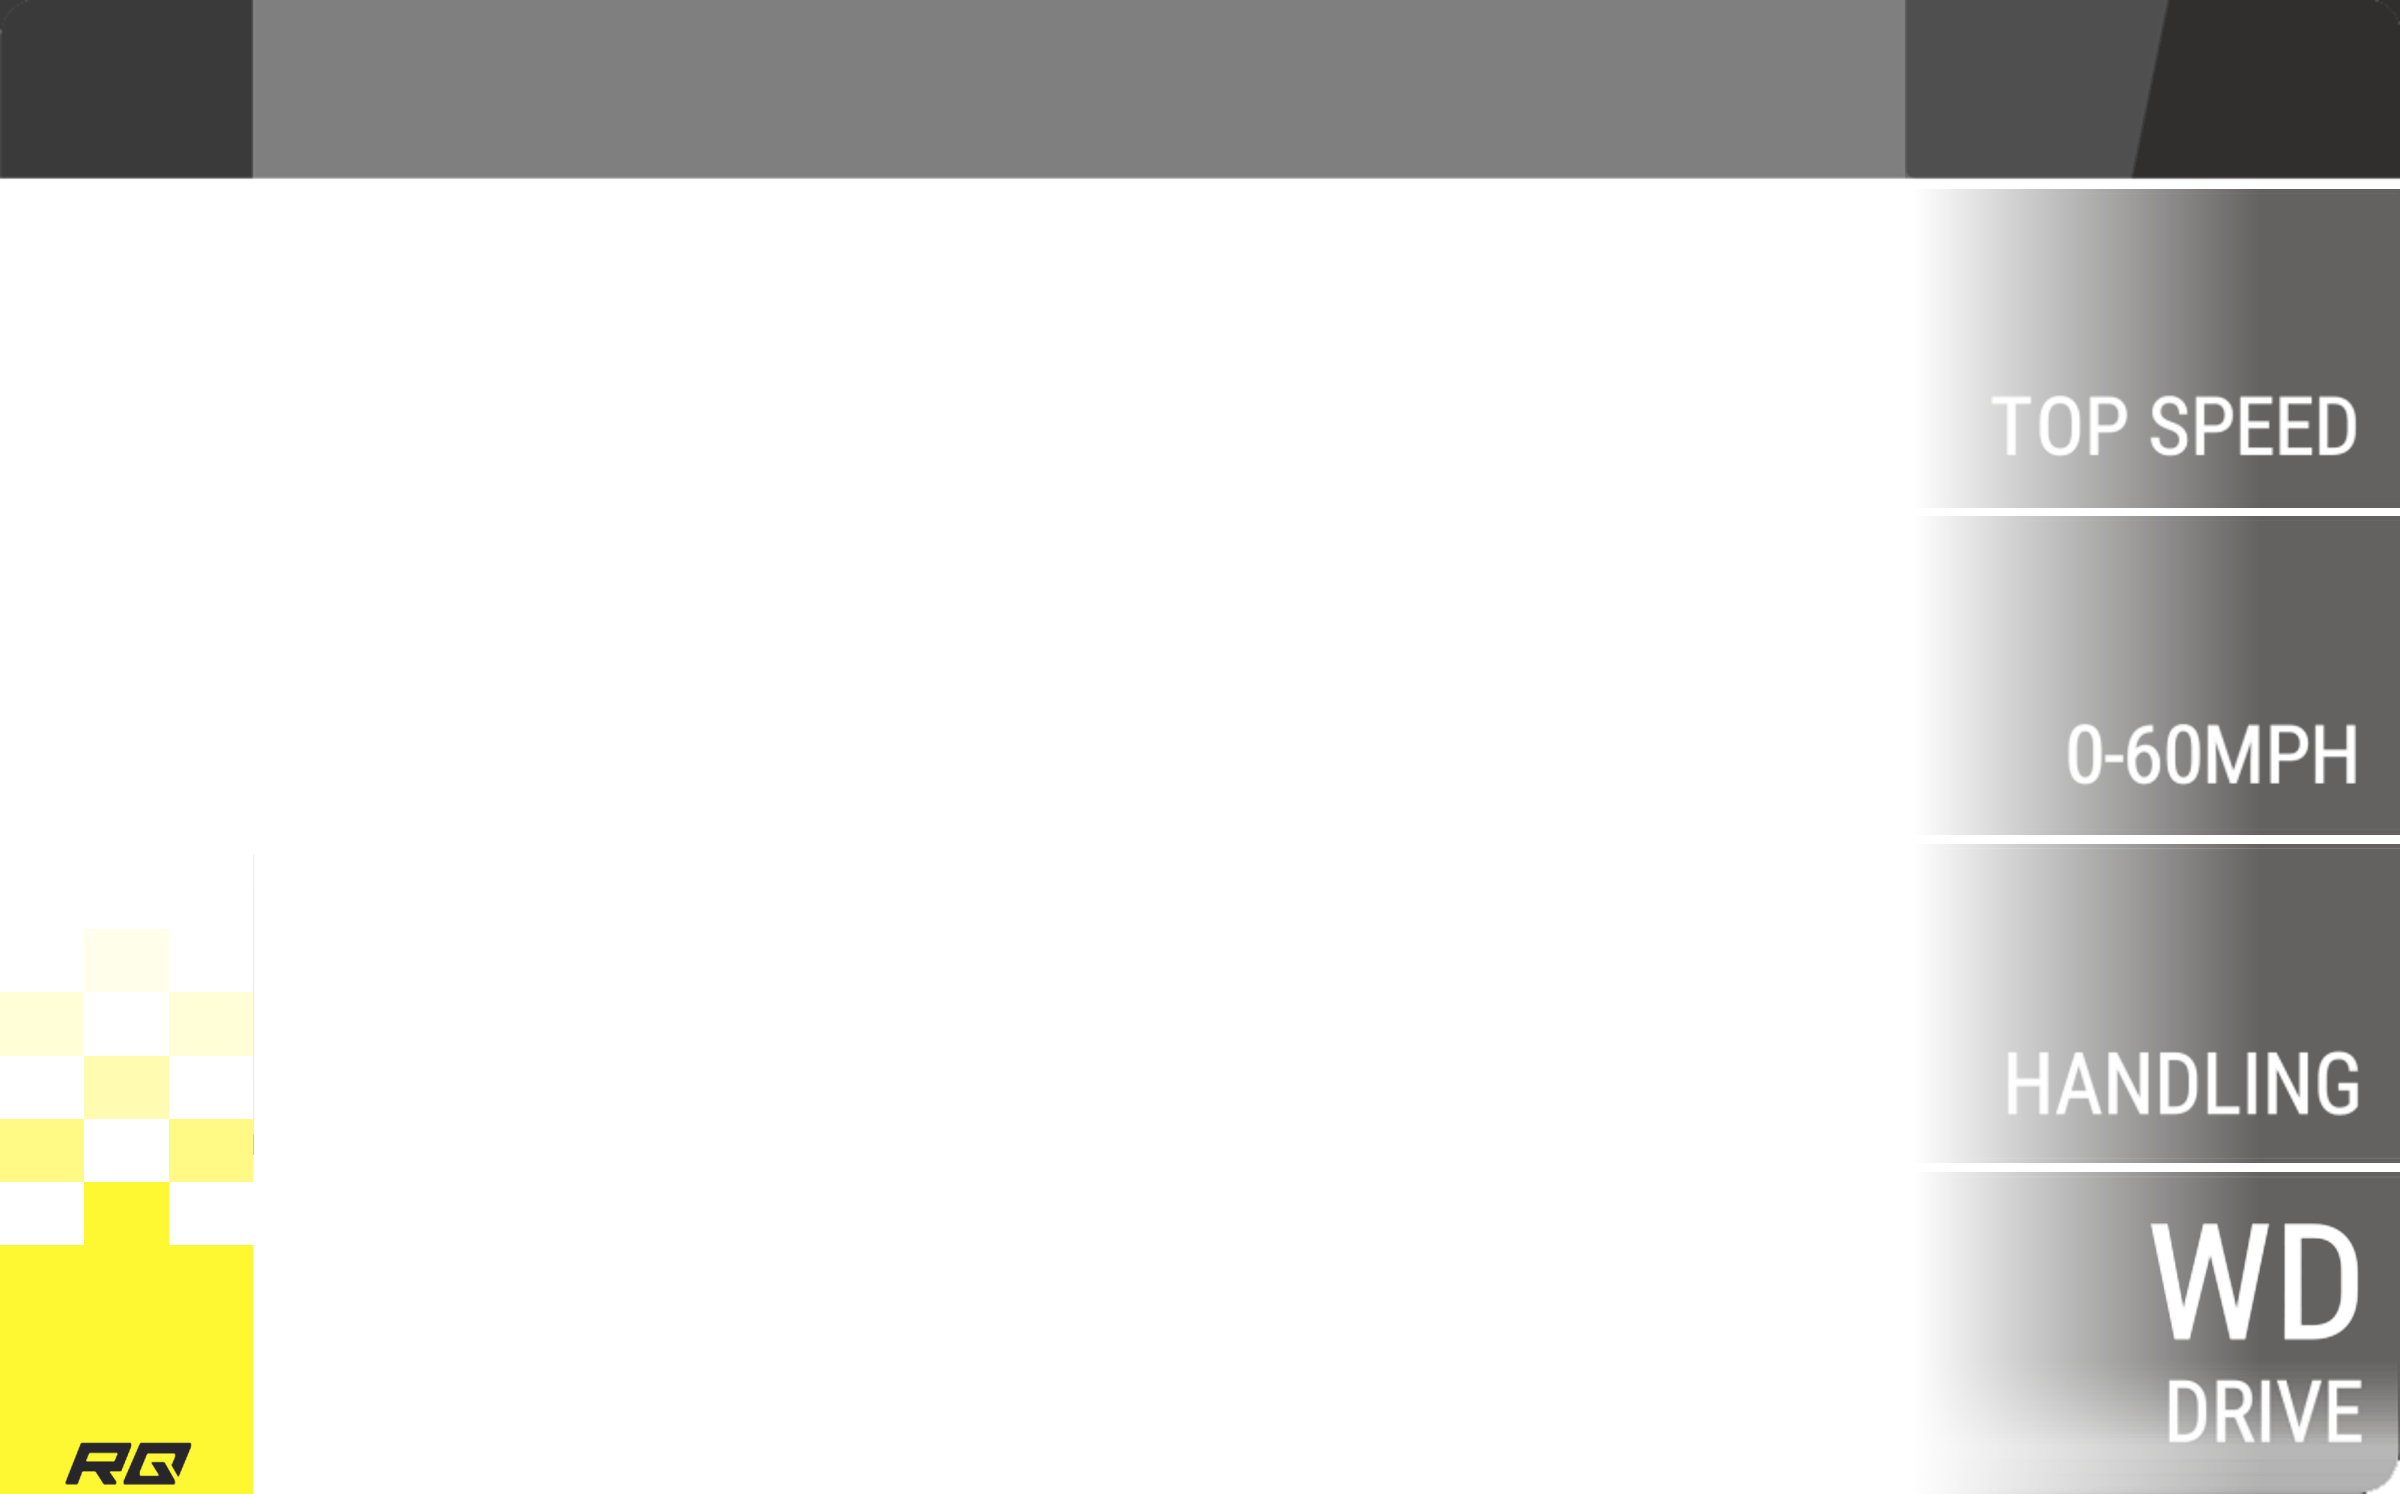
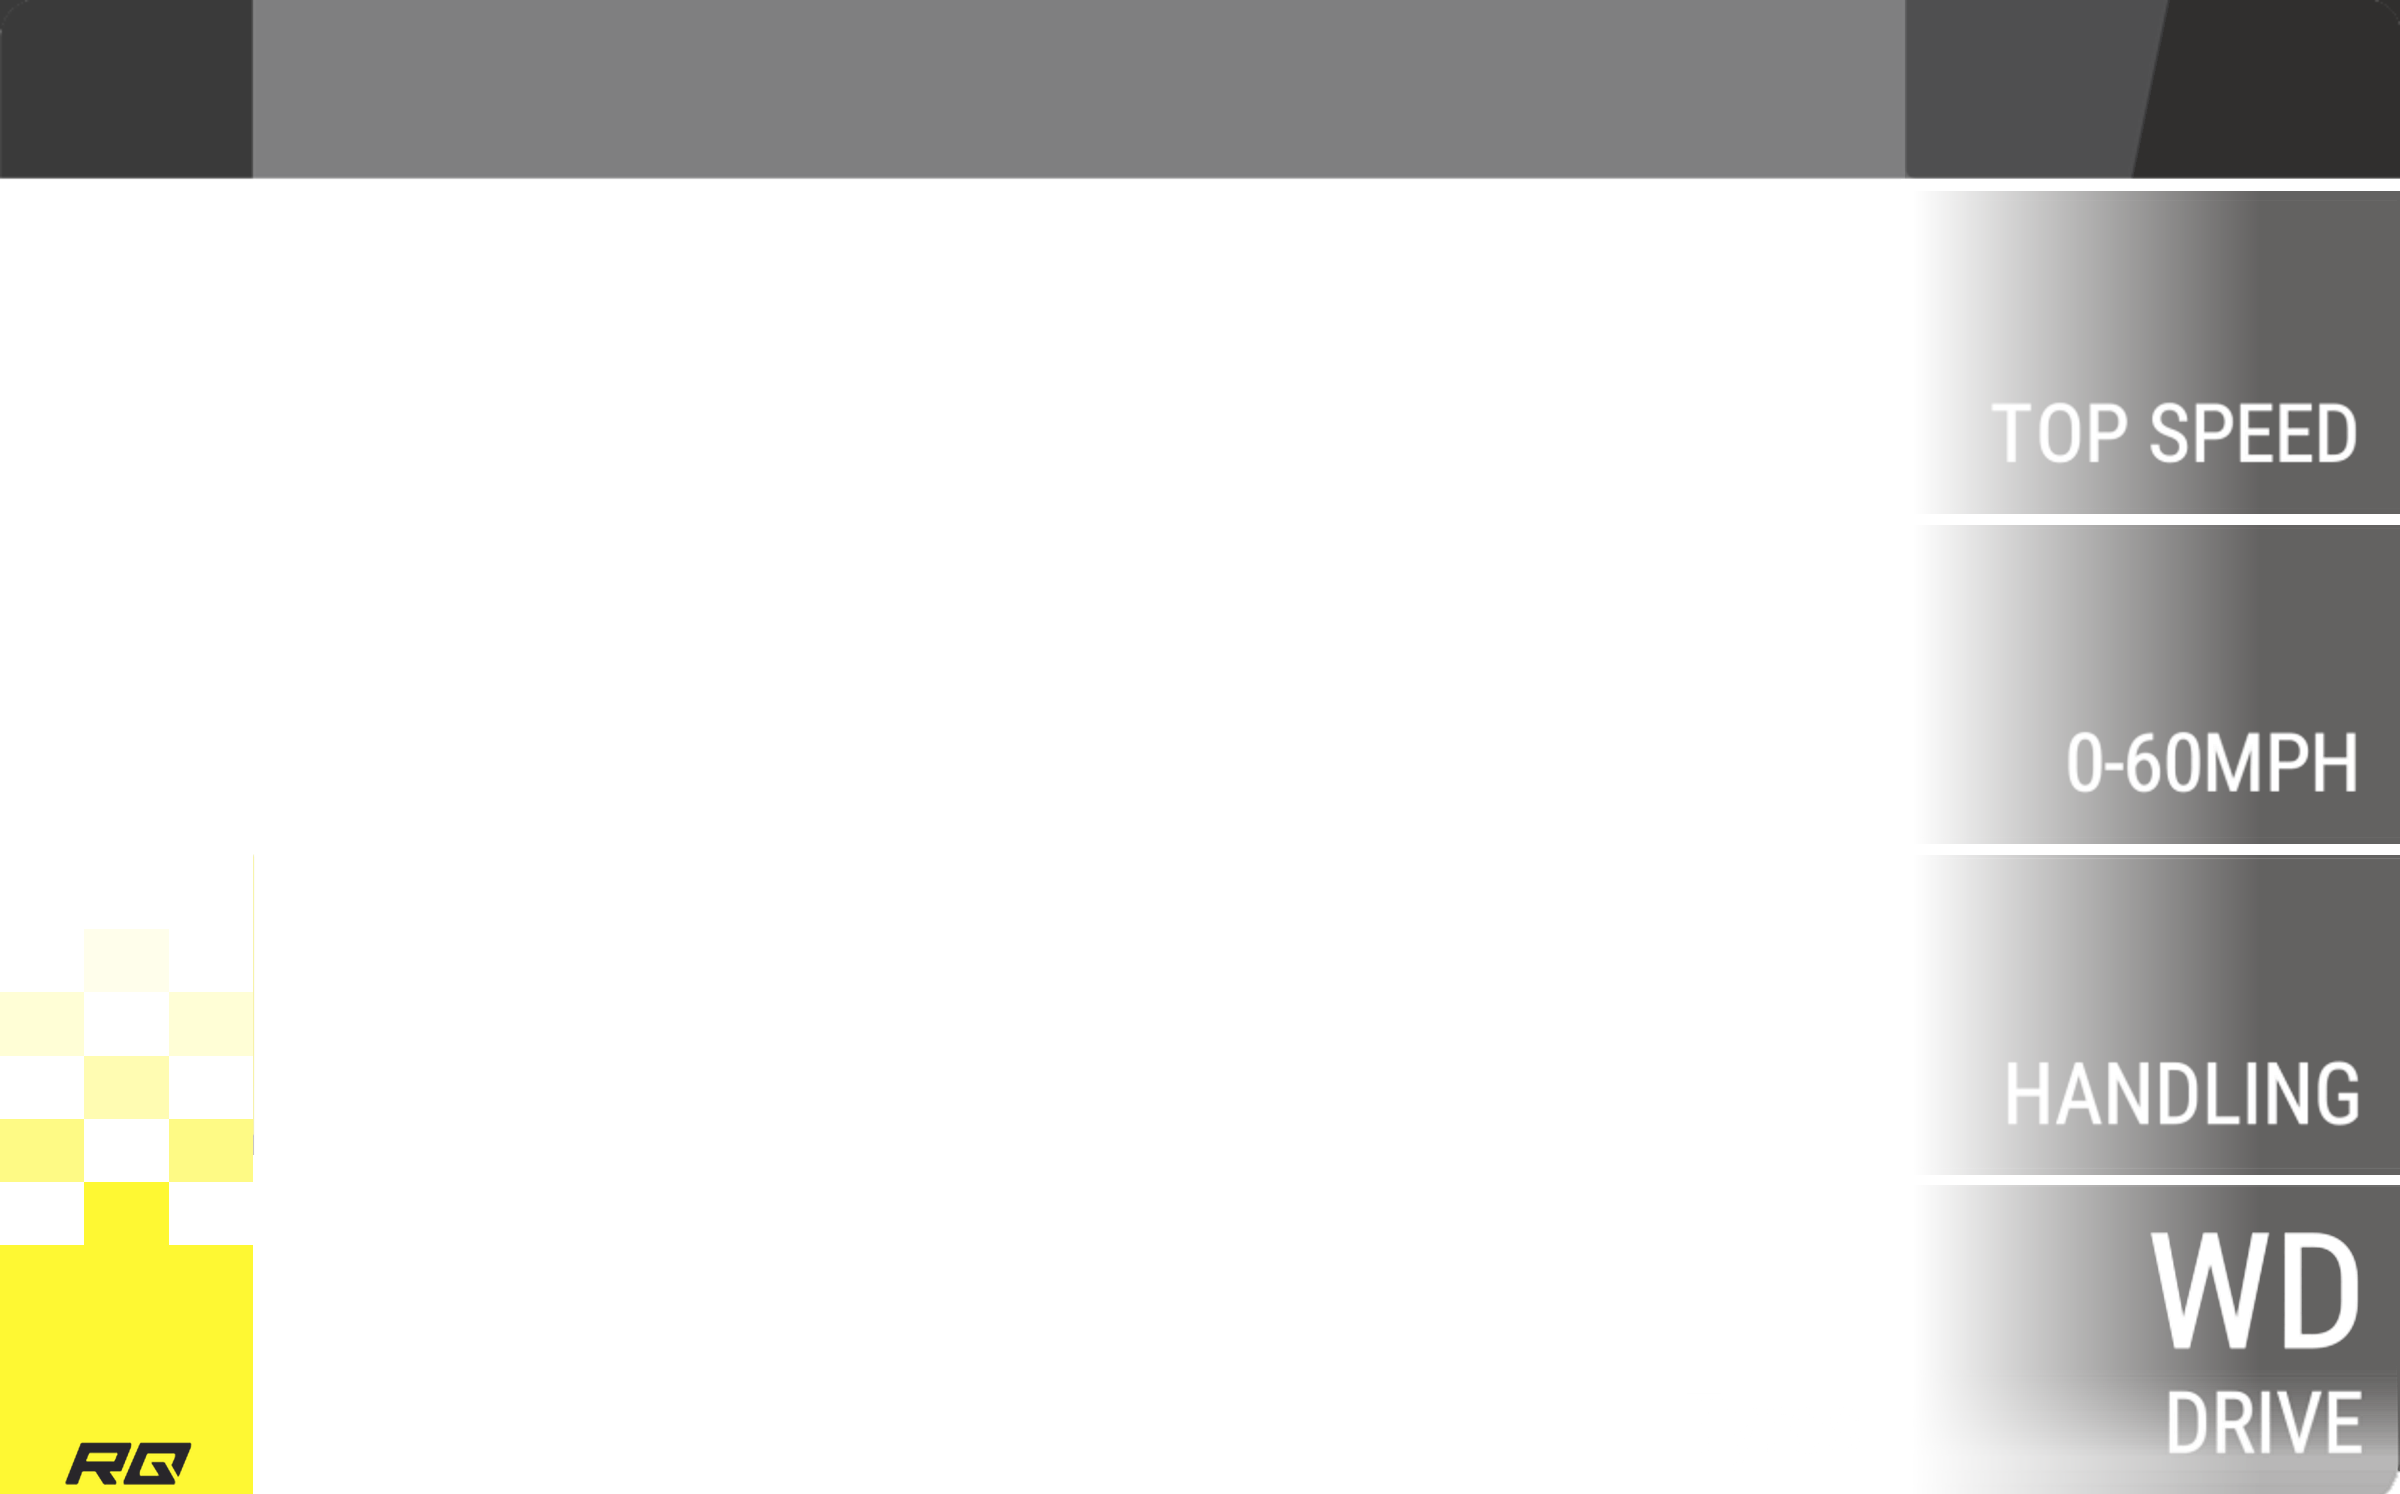
fix

diff --git a/tool/make_modern_frames.py b/tool/make_modern_frames.py
@@ -25,7 +25,11 @@ RAMP_END = 1260       # x (card units) where they are darkest; the template's bl
 CHECK_TOP = 690       # the solid colour block starts here, the chequered flag sits above it
 CHECK_CELL = 35       # size of a square of the chequered flag
 CHECK_ALPHA = [1.0, 0.60, 0.38, 0.20, 0.10]   # row by row, upwards
-TYRES_DX = -15        # units: the words under the photo end at x=1034 like on the game's cards
+TYRES_DX = -12        # units: the word "Tyres" under the photo ends at x=1034 like on the game's cards
+TYRES_DY = 5          # and sits 5 units lower than in the standard frame
+# Stat panels of the new design (card units) and how far the words baked into the standard panels move down.
+NEW_PANELS = [(106, 285), (291, 468), (474, 651), (657, 828)]
+WORD_GROUPS = [(99, 284, 3.8), (284, 466, 4.6), (466, 650, 5.6), (650, 757, 5.0), (757, 828, 6.3)]
 # The title row is neutral grey on the new cards (the standard frame is warm brown). Colours measured
 # on a card of the new design; transparency of every part is kept from the standard frame.
 TITLE_LOGO = (58, 58, 58)
@@ -105,7 +109,7 @@ def build(letter, name):
     out[region(0, 430, 141, 828)] = 0
     out[region(141, 640, 1066, 828)] = 0
 
-    # --- stat panels: fade in from the left, keep the words ---
+    # --- stat panels: fade in from the left; panels and words sit where the new design has them ---
     col = a[:, px(1200, 0)[0], 3]
     rows = np.where(col > 0)[0]
     rows = rows[rows >= px(0, 100)[1]]
@@ -117,18 +121,31 @@ def build(letter, name):
         prev = r
     spans.append((start, prev + 1))
     x0p, x1p = px(1060, 0)[0], px(1338, 0)[0]
-    xs = np.arange(x0p, x1p)
-    t = np.clip((xs - px(1066, 0)[0]) / (px(RAMP_END, 0)[0] - px(1066, 0)[0]), 0, 1)
-    panel_alpha = PANEL_MAX * t                        # fully clear at the left edge, PANEL_MAX from RAMP_END on
+    H = out.shape[0]
+    # how much of a pixel is a "word" (TOP SPEED, DRIVE...), read out of the standard panels
+    word_old = np.zeros((H, x1p - x0p))
     for ya, yb in spans:
         block = a[ya:yb, x0p:x1p]
         inside = block[..., 3] > 0
         base = np.median(block[..., 3][inside])
-        c = np.clip((block[..., 3] - base) / (255 - base), 0, 1) * inside   # how much "word" a pixel is
-        pa = np.broadcast_to(panel_alpha, block.shape[:2]) * inside
+        word_old[ya:yb] = np.clip((block[..., 3] - base) / (255 - base), 0, 1) * inside
+    word = np.zeros_like(word_old)
+    for y0u, y1u, dy in WORD_GROUPS:                    # move every group of words to its new place
+        ya, yb = px(0, y0u)[1], px(0, y1u)[1]
+        shift = round(dy * FY)
+        dst_b = min(H, yb + shift)
+        word[ya + shift:dst_b] = np.maximum(word[ya + shift:dst_b], word_old[ya:ya + (dst_b - ya - shift)])
+    out[px(0, 99)[1]:, x0p:x1p] = 0                     # the old panels go
+    xs = np.arange(x0p, x1p)
+    t = np.clip((xs - px(1066, 0)[0]) / (px(RAMP_END, 0)[0] - px(1066, 0)[0]), 0, 1)
+    panel_alpha = PANEL_MAX * t                        # fully clear at the left edge, PANEL_MAX from RAMP_END on
+    for u0, u1 in NEW_PANELS:
+        ya, yb = px(0, u0)[1], px(0, u1)[1]
+        pa = np.broadcast_to(panel_alpha, (yb - ya, x1p - x0p))
+        c = word[ya:yb]
         oa = pa + c * (1 - pa)
         rgb = (PANEL_RGB * pa[..., None] * (1 - c[..., None]) + 255 * c[..., None]) / np.maximum(oa[..., None], 1e-6)
-        out[ya:yb, x0p:x1p, :3] = np.where(inside[..., None], rgb, 0)
+        out[ya:yb, x0p:x1p, :3] = np.where(oa[..., None] > 0, rgb, 0)
         out[ya:yb, x0p:x1p, 3] = oa * 255
 
     # --- new class block: solid colour, and above it a see-through chequered flag ---
@@ -149,7 +166,7 @@ def build(letter, name):
 
     # --- sprites back: dark RQ logo on the block, words under the photo, wrench ---
     put(out, logo_cov_arr, logo_pos, (40, 38, 42), scale=0.78, anchor=px(36, 799))
-    put(out, tyres_cov, tyres_pos, (255, 255, 255), anchor=(tyres_pos[0] + round(TYRES_DX * FX), tyres_pos[1]))
+    put(out, tyres_cov, tyres_pos, (255, 255, 255), anchor=(tyres_pos[0] + round(TYRES_DX * FX), tyres_pos[1] + round(TYRES_DY * FY)))
     put(out, wrench_cov, wrench_pos, (255, 255, 255), opacity=0.45, scale=1.5, anchor=px(185, 750))
 
     os.makedirs(OUT, exist_ok=True)

diff --git a/claude/claude.md b/claude/claude.md
@@ -139,7 +139,10 @@ claude/claude.md                 this file
   Measured from a Porsche 911 GT2 card: no stars/bottom strip, wrench 1.5x at (185,750), stat panels fading in from fully clear
   (alpha 0 -> 0.72 over x 1066..1260; the template's blur fades over the same width via `blurRegions[].fadeLeft`),
   colour block topped by a see-through chequered flag (35-unit squares, 3 columns, alpha fading upwards; class colour),
-  dark RQ number (`fields.rq.color`, y 699). Title row recoloured neutral grey (logo 58, bar 84/84/86, year 55, country 48),
+  dark RQ number (`fields.rq.color`, y 699). Stat panels re-spaced to the reference (gaps centred at 288/471/654, `NEW_PANELS`), baked words moved down per group
+  (`WORD_GROUPS`), tyres word dx -12 / dy +5, `blurRegions` y/h and `drivePrefix.baseline` 743 follow. Checked against a card of
+  the new design: static words within 1-2 units. Calibration trick: use the reference card as the photo (zoom 1, no shift) and
+  compare the dynamic fields by eye/measure. Title row recoloured neutral grey (logo 58, bar 84/84/86, year 55, country 48),
   Modern has its own `titleStyles.fan` (brand 54.5, baseline 68.5, x 155) and tyres shifted -15 (frame sprite + `fields.tyre.x` 405). Only class A was seen. `drivePrefix` has an explicit baseline (738, measured on a phone: 742 put the letter 3 px low) so the
   F/R/4 stands on the baseline of the baked "WD".
 - Flag: `CardProject.showFlag`, `CountryFlags` (painted, simplified), `FlagBadge` between frame and texts, polygon and
